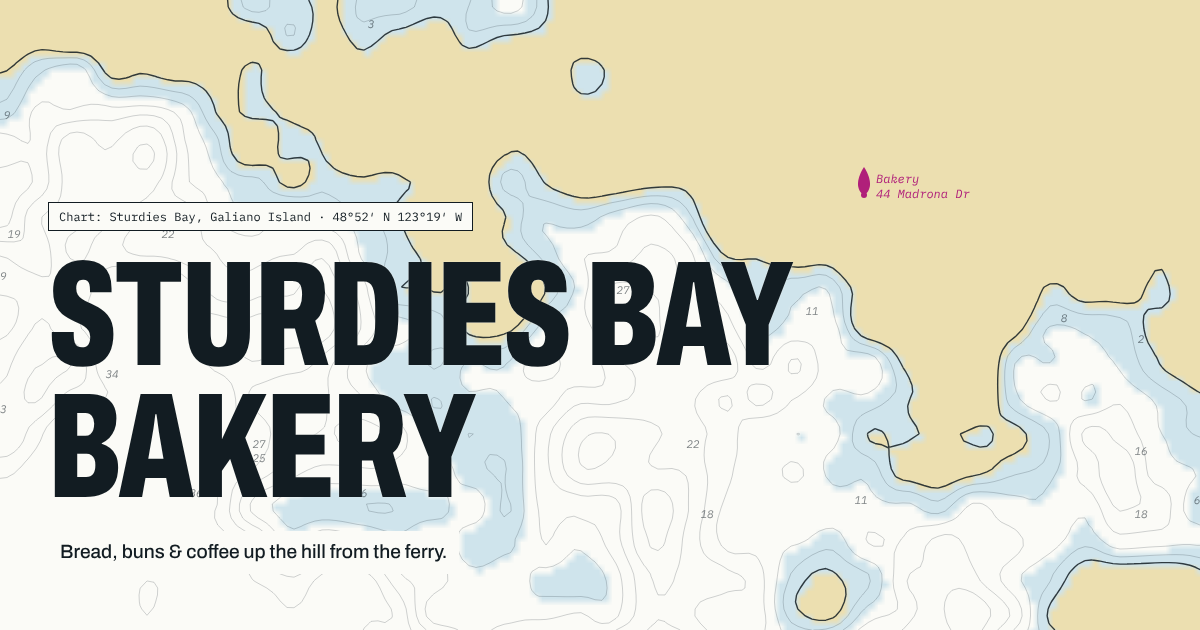
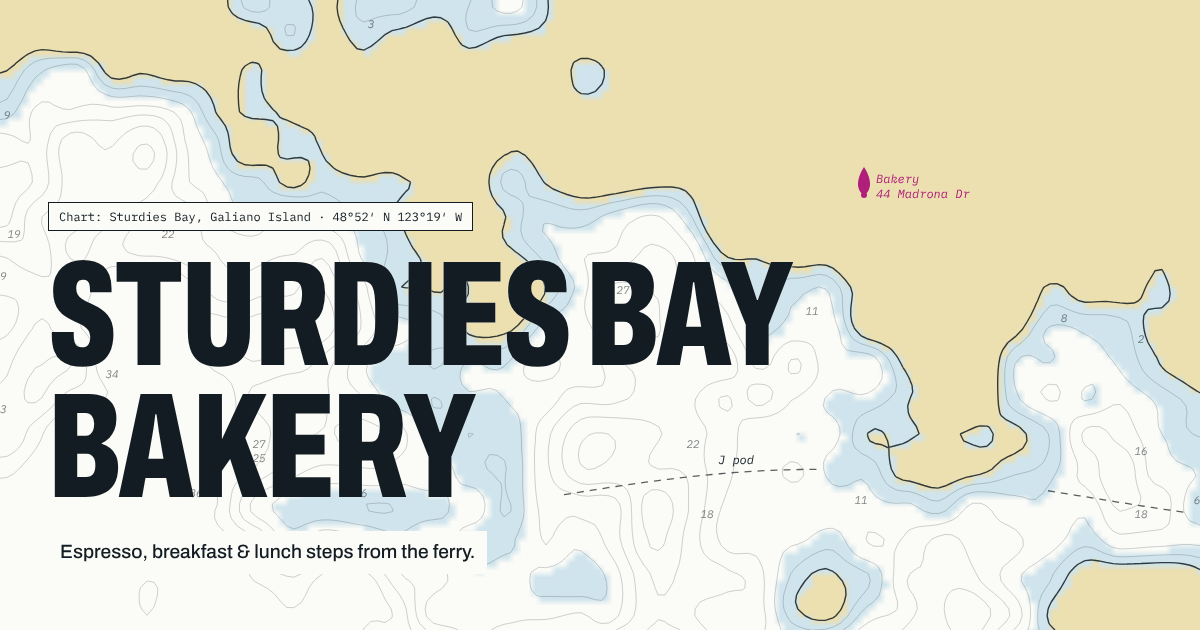
Add J pod mural, espresso bar and breakfast/lunch details
- New intro copy: steps from the ferry, full espresso bar with 2% Jazz
  coffee roasted in Victoria, breakfast, lunch, baking by boat
- J pod mural section crediting Tasli Shaw; Mural link in the side menu
- Breakfast & lunch menu group; bread, pies and cakes merged
- J pod's route drawn as a dashed track on the chart
- Facebook link alongside Instagram, both set in config.js
- Fix: elements with the hidden attribute now stay hidden
- Regenerated og-image.png

Claude-Session: https://claude.ai/code/session_01TYBu2Vvy3MTidKCAtrW32S

Changed region(s): [[0.0617, 0.8444, 0.4317, 0.9048], [0.5858, 0.7238, 0.6475, 0.754]]

diff --git a/index.html b/index.html
@@ -4,7 +4,7 @@
   <meta charset="utf-8">
   <meta name="viewport" content="width=device-width, initial-scale=1, viewport-fit=cover">
   <title>Sturdies Bay Bakery</title>
-  <meta name="description" content="Family-run café and bakery up from the Sturdies Bay ferry terminal on Galiano Island, BC. Coffee, cinnamon buns, bread and pies.">
+  <meta name="description" content="Family-run café steps from the Sturdies Bay ferry on Galiano Island, BC. Full espresso bar with 2% Jazz coffee, breakfast, lunch and baking. Home of the J pod mural.">
   <link rel="preconnect" href="https://fonts.googleapis.com">
   <link rel="preconnect" href="https://fonts.gstatic.com" crossorigin>
   <link href="https://fonts.googleapis.com/css2?family=Archivo:wdth,wght@62..125,300..900&family=IBM+Plex+Mono:ital,wght@0,400;0,500;1,400&display=swap" rel="stylesheet">
@@ -17,7 +17,7 @@
        domain, change these to full URLs, e.g. https://example.ca/og-image.png -->
   <meta property="og:type" content="website">
   <meta property="og:title" content="Sturdies Bay Bakery">
-  <meta property="og:description" content="Bread, buns & coffee up the hill from the Galiano ferry.">
+  <meta property="og:description" content="Espresso, breakfast &amp; lunch steps from the Galiano ferry. Home of the J pod mural.">
   <meta property="og:image" content="/og-image.png">
   <meta property="og:image:width" content="1200">
   <meta property="og:image:height" content="630">
@@ -29,7 +29,7 @@
     "@context": "https://schema.org",
     "@type": "Bakery",
     "name": "Sturdies Bay Bakery",
-    "description": "Family-run café and bakery up from the Sturdies Bay ferry terminal on Galiano Island.",
+    "description": "Family-run café steps from the Sturdies Bay ferry terminal on Galiano Island. Full espresso bar with 2% Jazz coffee, breakfast, lunch and baking. Home of the J pod mural.",
     "telephone": "+1-250-539-0094",
     "address": {
       "@type": "PostalAddress",
@@ -40,7 +40,7 @@
       "addressCountry": "CA"
     },
     "geo": { "@type": "GeoCoordinates", "latitude": 48.876, "longitude": -123.316 },
-    "servesCuisine": ["Bakery", "Coffee"],
+    "servesCuisine": ["Bakery", "Coffee", "Breakfast", "Lunch"],
     "image": "/og-image.png"
   }
   </script>
@@ -58,13 +58,16 @@
     <p class="status" id="status" hidden></p>
     <nav class="rail-nav" aria-label="Main">
       <a href="#menu">Menu</a>
-      <a href="#bakery">Bakery</a>
+      <a href="#mural">Mural</a>
       <a href="#visit">Visit</a>
     </nav>
     <div class="rail-foot">
       <a href="tel:+12505390094">250 539 0094</a>
       <span>44 Madrona Dr<br>Galiano Island</span>
-      <a class="ig-link" href="#" target="_blank" rel="noopener" hidden>Instagram</a>
+      <span class="social">
+        <a data-social="instagram" href="#" target="_blank" rel="noopener" hidden>Instagram</a>
+        <a data-social="facebook" href="#" target="_blank" rel="noopener" hidden>Facebook</a>
+      </span>
     </div>
   </aside>
 
@@ -75,13 +78,13 @@
       <div class="hero-title">
         <p class="chart-note">Chart: Sturdies Bay, Galiano Island · 48°52′ N 123°19′ W</p>
         <h1>Sturdies Bay<br>Bakery</h1>
-        <p class="hero-sub">Bread, buns &amp; coffee up the hill from the ferry.</p>
+        <p class="hero-sub">Espresso, breakfast &amp; lunch steps from the ferry.</p>
       </div>
     </section>
 
     <!-- Intro -->
     <section class="intro wrap">
-      <p class="intro-text">A small family-run café up the hill from the Galiano ferry. Like most things on the island, our baking comes over by boat: cinnamon buns, loaves, scones, hand pies and whole pies, with espresso and drip coffee made here to go with them.</p>
+      <p class="intro-text">A small family-run café steps from the Sturdies Bay ferry terminal. We run a full espresso bar pouring 2% Jazz coffee, roasted in Victoria, with breakfast, lunch and baking that comes over by boat. Look for the orcas on the wall: we’re home of the J pod mural.</p>
       <div class="intro-actions">
         <a href="#menu" class="button">See the menu</a>
         <a href="#visit" class="text-link">Hours &amp; directions</a>
@@ -97,9 +100,9 @@
 
       <div class="menu-grid">
         <div class="menu-group">
-          <h3>Coffee &amp; drinks</h3>
+          <h3>Espresso bar</h3>
           <ul>
-            <li>Drip coffee</li>
+            <li>Drip coffee <small>2% Jazz, Victoria BC</small></li>
             <li>Espresso</li>
             <li>Americano</li>
             <li>Latte <small>oat or dairy</small></li>
@@ -108,6 +111,14 @@
             <li>Loose-leaf tea</li>
             <li>Cold drinks</li>
           </ul>
+        </div>
+        <div class="menu-group">
+          <h3>Breakfast &amp; lunch</h3>
+          <ul>
+            <li>Breakfast</li>
+            <li>Lunch</li>
+          </ul>
+          <p class="group-note">What's on changes, so ask at the counter.</p>
         </div>
         <div class="menu-group">
           <h3>Baking</h3>
@@ -121,23 +132,29 @@
           </ul>
         </div>
         <div class="menu-group">
-          <h3>Bread</h3>
+          <h3>Bread, pies &amp; cakes</h3>
           <ul>
-            <li>Rustic whole wheat</li>
-            <li>Spelt</li>
+            <li>Whole wheat &amp; spelt loaves</li>
             <li>Country white</li>
-            <li>Daily special <small>ask at the counter</small></li>
-          </ul>
-        </div>
-        <div class="menu-group">
-          <h3>Pies &amp; cakes</h3>
-          <ul>
             <li>Fruit pies <small>seasonal</small></li>
             <li>Whole cakes</li>
             <li>Special orders <small>call 1–2 days ahead</small></li>
           </ul>
         </div>
       </div>
+    </section>
+
+    <!-- Mural -->
+    <section class="mural wrap" id="mural">
+      <header class="section-head">
+        <h2>The J pod mural</h2>
+        <p>Our café is home to Vancouver Island artist Tasli Shaw’s mural of J pod, one of the three families of Southern Resident killer whales that travel the Salish Sea. Keep an eye on the water from the ferry: the real ones pass through these channels too.</p>
+      </header>
+      <dl class="mural-facts">
+        <div><dt>Artist</dt><dd>Tasli Shaw, Vancouver Island</dd></div>
+        <div><dt>Subject</dt><dd>J pod, Southern Resident killer whales</dd></div>
+        <div><dt>The pods</dt><dd>J, K &amp; L, all in the Salish Sea</dd></div>
+      </dl>
     </section>
 
     <!-- Photos -->
@@ -166,7 +183,7 @@
     <section class="visit wrap" id="visit">
       <header class="section-head">
         <h2>Visit</h2>
-        <p>A short walk up Madrona Drive from the Sturdies Bay ferry terminal. Stop in before your sailing or on your way onto the island.</p>
+        <p>Steps from the Sturdies Bay ferry terminal on Madrona Drive. Stop in before your sailing or on your way onto the island.</p>
       </header>
 
       <dl class="details">
@@ -183,12 +200,17 @@
       <div class="visit-links">
         <a class="text-link" href="https://www.google.com/maps/search/?api=1&query=Sturdies+Bay+Bakery+Galiano+Island" target="_blank" rel="noopener">Open in Google Maps</a>
         <a class="text-link" href="https://www.bcferries.com/" target="_blank" rel="noopener">BC Ferries sailing times</a>
+        <a class="text-link" data-social="instagram" href="#" target="_blank" rel="noopener" hidden>Updates on Instagram</a>
+        <a class="text-link" data-social="facebook" href="#" target="_blank" rel="noopener" hidden>Updates on Facebook</a>
       </div>
     </section>
 
     <footer class="footer wrap">
       <span>Sturdies Bay Bakery · Galiano Island, British Columbia</span>
-      <a class="ig-link" href="#" target="_blank" rel="noopener" hidden>Instagram</a>
+      <span class="social">
+        <a data-social="instagram" href="#" target="_blank" rel="noopener" hidden>Instagram</a>
+        <a data-social="facebook" href="#" target="_blank" rel="noopener" hidden>Facebook</a>
+      </span>
       <span>© <span id="year">2026</span></span>
     </footer>
   </main>
@@ -202,12 +224,17 @@
       const DAYS = ['sun', 'mon', 'tue', 'wed', 'thu', 'fri', 'sat'];
       const NAMES = { mon: 'Mon', tue: 'Tue', wed: 'Wed', thu: 'Thu', fri: 'Fri', sat: 'Sat', sun: 'Sun' };
 
-      if (site.instagram) {
-        document.querySelectorAll('.ig-link').forEach(a => {
-          a.href = 'https://www.instagram.com/' + site.instagram.replace(/^@/, '') + '/';
+      const socialUrl = {
+        instagram: h => 'https://www.instagram.com/' + h.replace(/^@/, '') + '/',
+        facebook: h => /^https?:/.test(h) ? h : 'https://www.facebook.com/' + h + '/'
+      };
+      Object.keys(socialUrl).forEach(net => {
+        if (!site[net]) return;
+        document.querySelectorAll('[data-social="' + net + '"]').forEach(a => {
+          a.href = socialUrl[net](site[net]);
           a.hidden = false;
         });
-      }
+      });
 
       const hours = site.hours;
       if (!hours) return;
@@ -274,7 +301,7 @@
           links.forEach(a => a.toggleAttribute('aria-current', a.getAttribute('href') === '#' + e.target.id));
         });
       }, { rootMargin: '-45% 0px -50% 0px' });
-      ['menu', 'bakery', 'visit'].forEach(id => io.observe(document.getElementById(id)));
+      ['menu', 'mural', 'bakery', 'visit'].forEach(id => io.observe(document.getElementById(id)));
     })();
 
     /* Generated nautical chart of the bay: land (buff), shallow water (blue),
@@ -381,6 +408,31 @@
           if (v < LAND - 0.02) ctx.fillText(Math.max(1, Math.round((LAND - v) * 90)), i * CELL, j * CELL);
         });
         ctx.globalAlpha = 1;
+
+        // J pod's track: a dashed route through open water, drawn only over water
+        ctx.save();
+        ctx.setLineDash([7, 6]);
+        ctx.lineWidth = 1.3;
+        ctx.strokeStyle = C.ink;
+        ctx.globalAlpha = 0.7;
+        ctx.beginPath();
+        let pen = false, labelAt = null;
+        const x0 = W * 0.47; // starts right of the title's second line
+        for (let x = W < 700 ? W + 1 : x0; x <= W; x += 4) {
+          const y = H * (0.79 + 0.045 * Math.sin((x / W) * Math.PI * 2.2 + t * 3));
+          const fi = Math.min(cols - 1, Math.round(x / CELL)), fj = Math.min(rows - 1, Math.round(y / CELL));
+          const wet = field[fj * cols + fi] < SHALLOW;
+          if (wet && !pen) { ctx.moveTo(x, y); pen = true; }
+          else if (wet) { ctx.lineTo(x, y); if (!labelAt && x > x0 + W * 0.12) labelAt = [x, y]; }
+          else pen = false;
+        }
+        ctx.stroke();
+        ctx.restore();
+        if (labelAt) {
+          ctx.font = 'italic 12px "IBM Plex Mono", monospace';
+          ctx.fillStyle = C.ink; ctx.textAlign = 'left';
+          ctx.fillText('J pod', labelAt[0] + 6, labelAt[1] - 10);
+        }
 
         // Light: the bakery, on the shore
         const mx = W * (W < 700 ? 0.7 : 0.72), my = H * 0.3;

diff --git a/styles.css b/styles.css
@@ -21,6 +21,7 @@
 }
 
 * { box-sizing: border-box; }
+[hidden] { display: none !important; }
 html { scroll-behavior: smooth; }
 body {
   margin: 0;
@@ -216,7 +217,7 @@ main { margin-left: var(--rail); }
 }
 .section-head p { color: var(--ink-soft); max-width: 32em; }
 
-.menu, .bakery, .visit { padding-top: var(--space); }
+.menu, .mural, .bakery, .visit { padding-top: var(--space); }
 
 /* ---------- Menu ---------- */
 .menu-grid {
@@ -247,6 +248,24 @@ main { margin-left: var(--rail); }
 }
 .menu-group small { font-family: var(--font-mono); font-size: 0.72rem; font-weight: 400; color: var(--ink-soft); }
 .menu-group small.mark { color: var(--magenta); }
+.group-note { margin-top: 12px; font-size: 0.9rem; color: var(--ink-soft); }
+
+/* ---------- Mural ---------- */
+.mural-facts {
+  display: grid;
+  grid-template-columns: repeat(3, minmax(0, 1fr));
+  gap: 24px clamp(20px, 3vw, 40px);
+  margin: 0;
+}
+.mural-facts dt {
+  font-family: var(--font-mono);
+  font-size: 0.75rem;
+  text-transform: uppercase;
+  letter-spacing: 0.08em;
+  color: var(--magenta);
+  margin-bottom: 8px;
+}
+.mural-facts dd { margin: 0; font-size: 1.15rem; font-weight: 500; }
 
 /* ---------- Photos ---------- */
 .photos {
@@ -296,6 +315,8 @@ main { margin-left: var(--rail); }
 
 /* ---------- Footer ---------- */
 .footer a { color: inherit; }
+.social { display: flex; gap: 16px; }
+.social:not(:has(a:not([hidden]))) { display: none; }
 .footer {
   display: flex;
   flex-wrap: wrap;
@@ -344,7 +365,7 @@ main { margin-left: var(--rail); }
   .rail-nav a[href="#bakery"] { display: none; }
   .rail { flex-wrap: wrap; row-gap: 6px; }
   .status { order: 4; width: 100%; }
-  .menu-grid, .details { grid-template-columns: minmax(0, 1fr); }
+  .menu-grid, .details, .mural-facts { grid-template-columns: minmax(0, 1fr); }
   .map { aspect-ratio: 4 / 3; }
 }
 

diff --git a/config.js b/config.js
@@ -19,5 +19,9 @@ window.SITE = {
 
   /* Instagram handle without the @, e.g. "sturdiesbaybakery".
      Leave empty to hide the Instagram links. */
-  instagram: ""
+  instagram: "",
+
+  /* Facebook page name (the part after facebook.com/) or the full page URL.
+     Leave empty to hide the Facebook links. */
+  facebook: ""
 };

diff --git a/README.md b/README.md
@@ -7,16 +7,17 @@ Sturdies Bay Bakery on Galiano Island, BC.
 |---|---|
 | `index.html` | The page: chart hero, menu, photos, visit details |
 | `styles.css` | All styling |
-| `config.js` | **Hours and Instagram handle. Edit this to update the site.** |
+| `config.js` | **Hours, Instagram and Facebook. Edit this to update the site.** |
 | `404.html` | Page shown for broken links (Vercel serves it automatically) |
 | `og-image.png` | Image shown when the link is shared in texts and social apps |
 | `favicon.svg`, `apple-touch-icon.png` | Browser tab and phone home-screen icons |
 | `vercel.json` | Clean URLs and image caching on Vercel |
 
-## Updating hours and Instagram
+## Updating hours and social links
 
-Open `config.js` and fill in `hours` (there's an example in the file) and
-`instagram`. Once hours are set, the site:
+Open `config.js` and fill in `hours` (there's an example in the file),
+`instagram` and `facebook`. Social links stay hidden until they're filled in.
+Once hours are set, the site:
 
 - shows an **Open now · until 3pm** / **Closed · opens 7am** badge in the menu bar,
   using island time (America/Vancouver)
@@ -48,7 +49,8 @@ so link previews work everywhere.
 ## Still needed from the owners
 
 - Real opening hours (goes in `config.js`)
-- Instagram handle, if there is one (goes in `config.js`)
+- Instagram handle and Facebook page (go in `config.js`)
+- A photo of the J pod mural, and confirmation it's OK to credit Tasli Shaw by name
 - Photos of the bakery
 - Menu check and prices, if wanted
 - Confirm phone (250) 539-0094 and address 44 Madrona Drive
